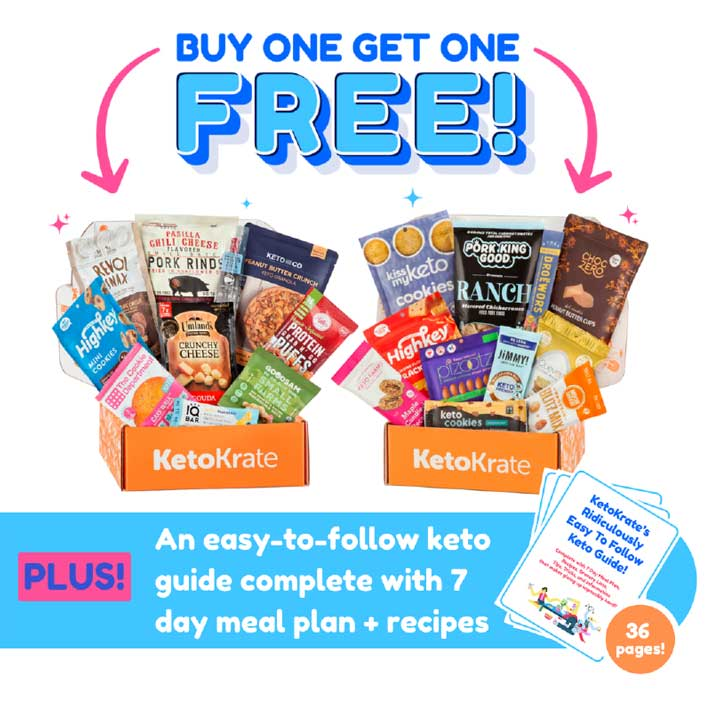
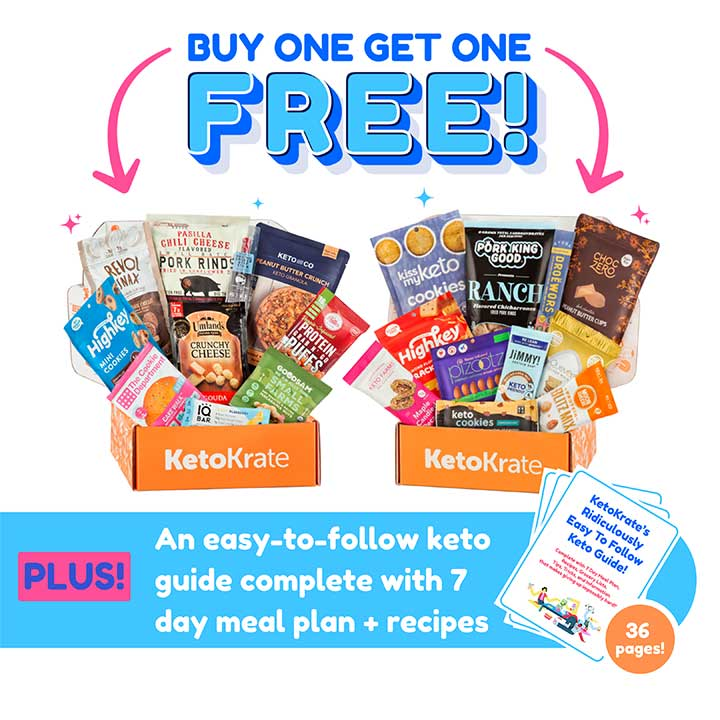
update cta images

diff --git a/app/newyear.html b/app/newyear.html
@@ -586,14 +586,14 @@
             <picture>
               <source
                 type="image/webp"
-                data-srcset="assets/images/msa-hero-small.webp"
+                data-srcset="assets/images/newyear-cta-trans.webp"
               />
               <source
                 type="image/png"
-                data-srcset="assets/images/msa-hero-small.png"
+                data-srcset="assets/images/newyear-cta-trans.jpg"
               />
               <img
-                data-src="assets/images/msa-hero-small.png"
+                data-src="assets/images/newyear-cta-trans.jpg"
                 width="400"
                 height="400"
                 alt="Open KetoKrate"
@@ -844,14 +844,14 @@
             <picture>
               <source
                 type="image/webp"
-                data-srcset="assets/images/msa-hero-small.webp"
+                data-srcset="assets/images/newyear-cta-trans.webp"
               />
               <source
                 type="image/png"
-                data-srcset="assets/images/msa-hero-small.png"
+                data-srcset="assets/images/newyear-cta-trans.jpg"
               />
               <img
-                data-src="assets/images/msa-hero-small.png"
+                data-src="assets/images/newyear-cta-trans.jpg"
                 width="400"
                 height="400"
                 alt="Open KetoKrate"
@@ -1287,14 +1287,14 @@
             <picture>
               <source
                 type="image/webp"
-                data-srcset="assets/images/newyear-hero.webp"
+                data-srcset="assets/images/newyear-cta.webp"
               />
               <source
                 type="image/png"
-                data-srcset="assets/images/newyear-hero.jpg"
+                data-srcset="assets/images/newyear-cta.jpg"
               />
               <img
-                data-srcset="assets/images/newyear-hero.jpg"
+                data-srcset="assets/images/newyear-cta.jpg"
                 width="400"
                 height="400"
                 alt="Open KetoKrate"
